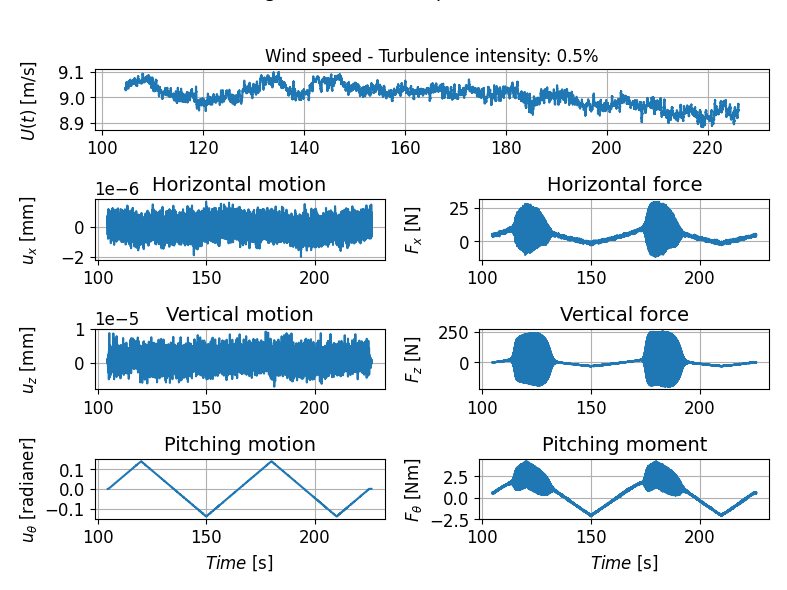
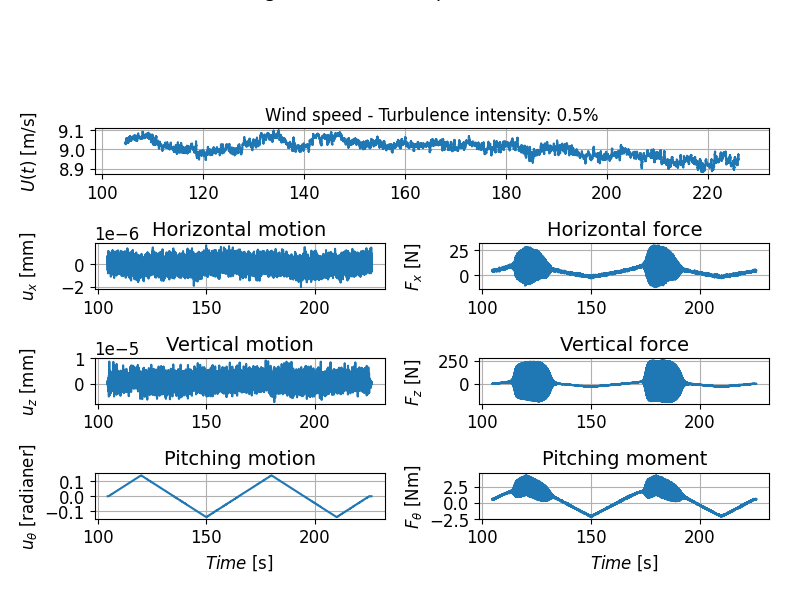
debugge

Changed region(s): [[0.0305, 0.061, 0.9759, 0.9458], [0.0305, 0.5492, 0.061, 0.7017]]

diff --git a/w3tp/w3t/_exp.py b/w3tp/w3t/_exp.py
@@ -648,7 +648,7 @@ class Experiment:
             axs[6].set_xlabel(r"$Time$ [s]")
             #axs[6].legend()
             
-            fig.tight_layout(rect=[0, 0, 1, 0.85])
+            #fig.tight_layout(rect=[0, 0, 1, 0.85])
 
         
 
